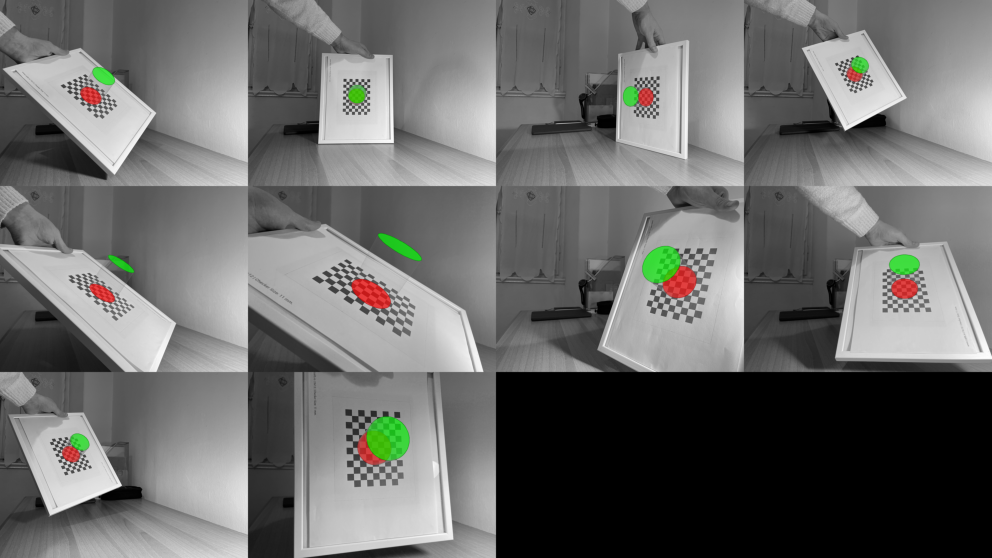
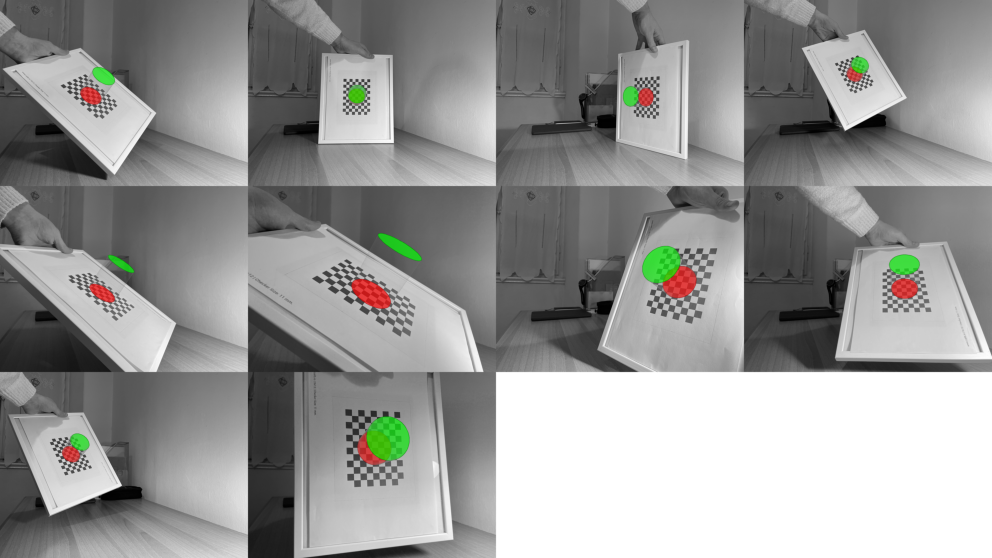
improving compound image

Changed region(s): [[0.5, 0.6398, 1.0, 1.0]]

diff --git a/functions.py b/functions.py
@@ -266,7 +266,7 @@ def create_compound_image(path, limages, rows, cols):
 
     height, weight, n_c = limages[0].shape
 
-    compound_img = np.empty((rows * height, cols * weight, n_c), dtype="uint8")
+    compound_img = np.full((rows * height, cols * weight, n_c), fill_value=255, dtype="uint8")
 
     for i in range(rows):
         images_max_index = min((i + 1) * cols, len(limages))
